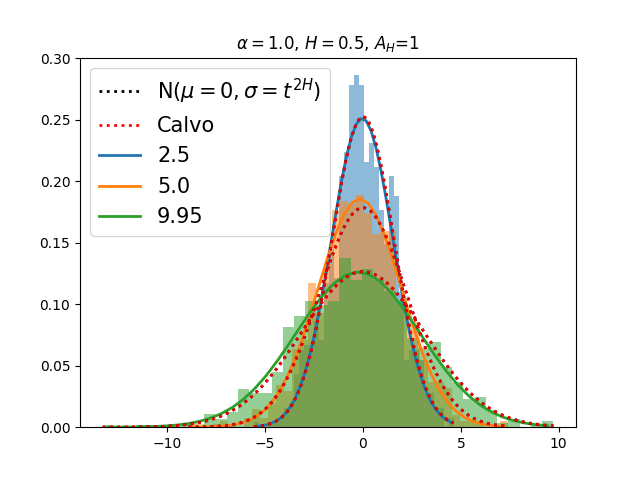
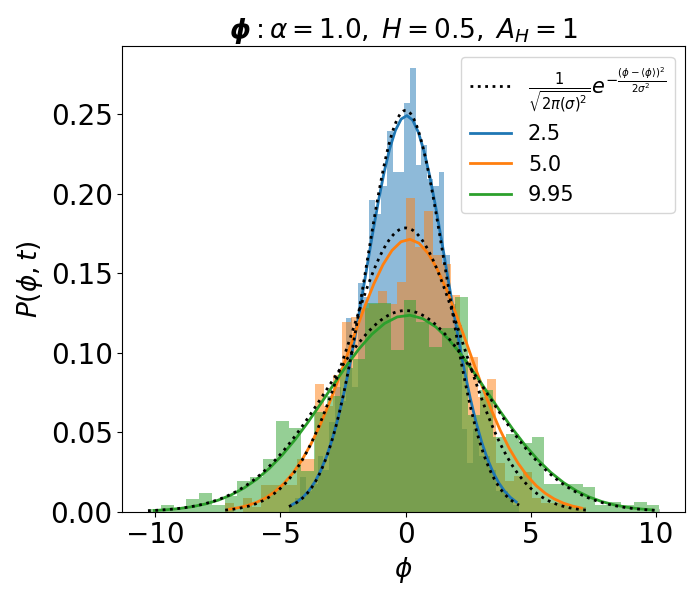
Defined variance and pdf of phi in its class

diff --git a/src/plotting.py b/src/plotting.py
@@ -57,13 +57,7 @@ def phi_fBm_msd(time, H):
     # return (1/(2*H*(gamma(H+1/2)**2)))*(time**(2*H))
     return (time**(2*H))
 
-# def phi_mean(time):
-#     return np.zeros(len(time))
 
-# def phi_var(time, alpha):
-#     return (2*(time**alpha))/gamma(alpha+1)
-
-# def phi_var(time):
 
 # Plotting
 def plot_msd(ax, env, variable, label_an = True):
@@ -161,24 +155,21 @@ def plot_moment(ax, env, variable, mom_type, label_an = True):
     ax.legend(fontsize=legend_size)
 
 
-def plot_pdf(ax, env, time):
+def plot_pdf(ax, env, mode, time):
     
     trajectories_points = env.trajectories[:, time]
 
-    # Ansatz
-    phi_range = np.arange(np.min(trajectories_points), np.max(trajectories_points), 1e-3)
-    # propagator = phi_propagator_ansatz(phi_range, time*env.h, env.alpha)
-    propagator = phi_fBm_propagator_ansatz(phi_range, time*env.h, env.H)
-    propagator_C = phi_fBm_propagator_calvo(phi_range, time*env.h, env.H)
-    label1 = None
-    label2 = None
-    if time == int(env.Tf/(4*env.h)):
-        # label = r'$\frac{1}{sqrt{2*\pi*t^{2*H}}}$'
-        label1 = r'N($\mu=0,\sigma=t^{2H}$)'
-        label2 = r'Calvo'
-    ax.plot(phi_range, propagator, lw=2, ls=":", color = 'black', zorder=2, label = label1)
-    ax.plot(phi_range, propagator_C, lw=2, ls=":", color = 'red', zorder=2, label = label2)
+    # Analytitcal
+
+    label = None
+    variable = '\phi' if mode=='phi' else mode
     
+    if time == int(env.Tf/(4*env.h)):
+        label = r'$\frac{1}{\sqrt{{2\pi(\sigma)^2}}}$'+rf'$e^{{-\frac{{({variable}-\langle {variable} \rangle)^2}}{{2\sigma^2}}}}$'
+
+    x, P = env.propagator(time)
+    ax.plot(x, P, lw=2, ls=":", color = 'black', zorder=2, label = label)
+
     # Histogram and Fit
     num_bins=40
     hist, bin_edges = np.histogram(trajectories_points, density=True, bins=num_bins)
@@ -192,6 +183,9 @@ def plot_pdf(ax, env, time):
     ax.bar(bin_centres, hist, width=bin_edges[1] - bin_edges[0], alpha=0.5, zorder=0)
     ax.plot(bin_centres, hist_fit, lw=2, label=f'{(round(time*env.h, 2))}', zorder=1)
     
-    ax.set_title(rf'$\alpha=${env.alpha}, $H=${env.H}, $A_H$={round(env.A_H,2)}')
+    ax.set_title(rf'$\boldsymbol{{{variable}}}: \alpha = {env.alpha},\; H = {env.H},\; A_H = {round(env.A_H, 2)}$', fontsize=axis_fontsize)
+    ax.set_xlabel(rf'${variable}$', fontsize=axis_fontsize)
+    ax.set_ylabel(rf'$P({variable},t)$', fontsize=axis_fontsize)
+    ax.tick_params(axis='both', labelsize=size_ticks)
     ax.legend(fontsize = legend_size)
 

diff --git a/scripts/run.py b/scripts/run.py
@@ -9,7 +9,7 @@ parser = argparse.ArgumentParser()
 parser.add_argument("--modes", nargs='+', default=["phi"], choices=["phi", "x", "y", "r"], help="Which motion to simulate: phi, x, y, r"
 )
 parser.add_argument("--alpha", nargs='+', type=float, default=[0.5], help="Alpha value(s)")
-parser.add_argument("--H", nargs='+', type=float, default=None, help="H value(s). Required if alpha=1.")
+parser.add_argument("--H", nargs='+', type=float, default=[0.5], help="H value(s). Required if alpha=1.")
 parser.add_argument("--realizations", type=int, default=1000, help="Number of realizations")
 parser.add_argument("--sets", type=int, default=1, help="Number of sets")
 parser.add_argument("--Tf", type=float, default=10, help="Final time Tf")
@@ -25,28 +25,26 @@ realizations, sets, Tf, h = args.realizations, args.sets, args.Tf, args.h
 envs = []
 for alpha in alphas:
     # alpha == 1 : use provided H values
-    if alpha == 1:
-        if Hs is None:
-            raise ValueError("You must provide --H when alpha=1")
-        H_values = Hs
-    # alpha != 1 : compute H automatically
-    else:
-        H_values = [(2 - alpha) / 2]
+    # if alpha == 1:
+    #     if Hs is None:
+    #         raise ValueError("You must provide --H when alpha=1")
+    #     H_values = Hs
+    # # alpha != 1 : compute H automatically
+    # else:
+    #     H_values = [(2 - alpha) / 2]
 
-    for H in H_values:
+    for H in Hs:
         print(f"---- Running for alpha={alpha}, H={H}")
         for set_index in range(1, sets+1):
             print(f"-- Running set {set_index}")
             set_label = str(set_index).zfill(3)
 
-            # env = Base(realizations=realizations, set_index=set_label, alpha=alpha, H=H, Tf=Tf, h=h)
-
             # if "phi" in args.modes:
             phi = Angular(realizations=realizations, set_index=set_label, alpha=alpha, H=H, Tf=Tf, h=h)
             # phi.run()
             phi = parallelization.run_trajectories_parallel(phi, batch_size=10)
-            # phi.run_solution()
-            # phi.save(folder="data")
+            phi.run_solution()
+            phi.save(folder="data")
 
             if "x" in args.modes:
                 x = xDirection(phi_trajectories=phi.trajectories, realizations=realizations, set_index=set_label, alpha=alpha, H=H, Tf=Tf, h=h)

diff --git a/src/world.py b/src/world.py
@@ -88,13 +88,6 @@ class Base:
         print(len(self.trajectory_sol))
         self.msd_sol = np.mean((self.trajectory_sol - self.trajectory_sol[:, [0]])**2, axis=0)
 
-    def msd_theory(self):
-        """Theoretical msd (to be defines in subclass)"""
-        raise NotImplementedError
-    
-    def compute_msd_an(self):
-        self.msd_an = self.msd_theory()
-
     def compute_mean(self):
         self.mean = np.mean(self.trajectories, axis=0)
 
@@ -132,9 +125,44 @@ class Angular(Base):
 
     """
 
-    def msd_theory(self):
-        return (2/gamma(self.alpha+1))*self.t**(self.alpha)
+    def compute_var_an(self, time = 0):
+        H = self.H
+        alpha = self.alpha
+        nominator = H*gamma(2*H)
+        denominator = (alpha+H-1)*gamma(alpha)*gamma(alpha+2*H-1)
+        self.var_an = (nominator/denominator)*(self.t**(2*alpha+2*H-2))
+        return (nominator/denominator)*((time*self.h)**(2*alpha+2*H-2))
 
+    def propagator(self, time_index):
+        """
+
+        Given a time, it returns the analytical probability function over the interval spanned by the trajectory.
+
+        Returns:
+
+        x : np.array 
+        Intreval of evaluation of probability function [min(trajectory), max(trajectory)]
+        
+        P(x,t) : np.array
+        Analytical probability function
+
+        """
+
+        H = self.H
+        alpha = self.alpha
+        time = time_index*self.h
+
+        trajectory = self.trajectories[:, time_index]
+        x = np.arange(np.min(trajectory), np.max(trajectory), 1e-3)
+
+        variance = self.compute_var_an(time_index)
+        factor = np.sqrt( 1 / (2*np.pi*variance) )
+        argument = (-(x)**2) / (2*variance)
+
+        P = factor*np.exp(argument)
+
+        return x, P
+    
     def run_one(self):
         # Loop over timesteps
         traj = np.zeros(self.n)

diff --git a/scripts/plot.py b/scripts/plot.py
@@ -5,13 +5,13 @@ import matplotlib.pyplot as plt
 import plotting
 import utilities
 
-mode = 'x'
+mode = 'phi'
 alphas = [1.]   # include both cases
-Hs = [0.5]            # only used if alpha==1
+Hs = [0.7, 0.5, 0.3]            # only used if alpha==1
 realizations = 1000
 Tf = 10
 h = 0.05
-sets = 1
+sets = 5
 
 # Plotting
 fig1, ax1 = plt.subplots(figsize=(12, 9))
@@ -19,12 +19,7 @@ fig2, ax2 = plt.subplots()
 fig3, ax3 = plt.subplots()
 
 for alpha in alphas:
-    if alpha == 1:
-        H_values = Hs
-    else:
-        H_values = [(2 - alpha) / 2]
-
-    for H in H_values:
+    for H in Hs:
 
         env = utilities.read_env(mode, alpha, H, realizations, Tf, h, sets)
 
@@ -39,6 +34,8 @@ for alpha in alphas:
         # Plot moments
         env.compute_var()
         plotting.plot_moment(ax2, env, variable='sim', mom_type='var')
+        env.compute_var_an()
+        plotting.plot_moment(ax2, env, variable='an', mom_type='var')
         plotting.plot_moment(ax2, env, variable='fit', mom_type='var')
 
         env.compute_mean()
@@ -46,9 +43,10 @@ for alpha in alphas:
         plotting.plot_moment(ax3, env, 'fit', 'mean')
 
         # Plot PDF
-        fig_pdf, ax_pdf = plt.subplots()
+        fig_pdf, ax_pdf = plt.subplots(figsize=(8, 7))
         for t in [int(Tf/(4*h)), int(Tf/(2*h)), int((Tf/h)-1)]:
-            plotting.plot_pdf(ax_pdf, env, time=t)
+            plotting.plot_pdf(ax_pdf, env, mode, time=t)
+        fig_pdf.tight_layout()
         fig_pdf.savefig(f"plots/pdf/{mode}pdf_alpha{alpha}_H{H}_r{realizations*sets}_Tf{Tf}_h{h}.png", dpi=100)
 
 fig1.tight_layout()
